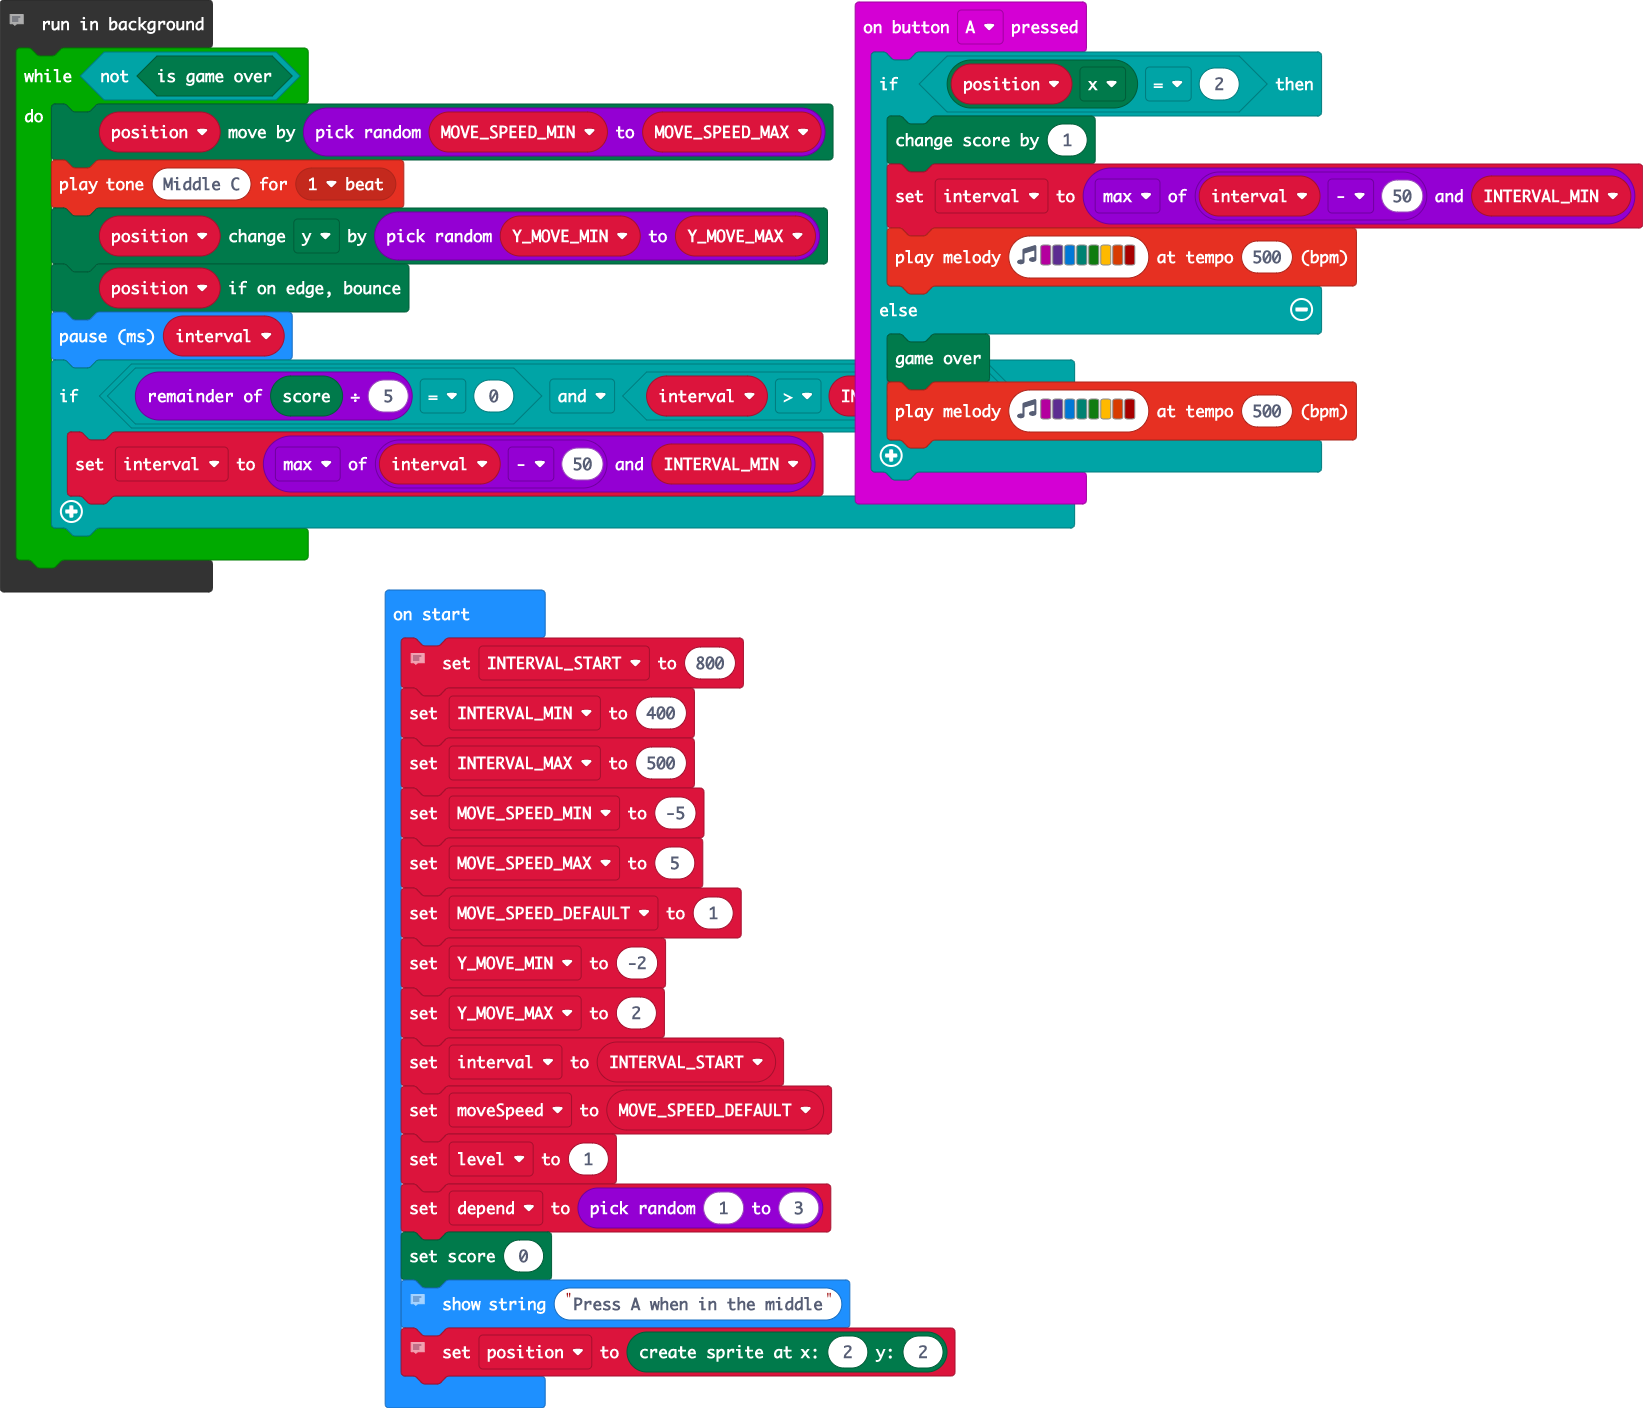
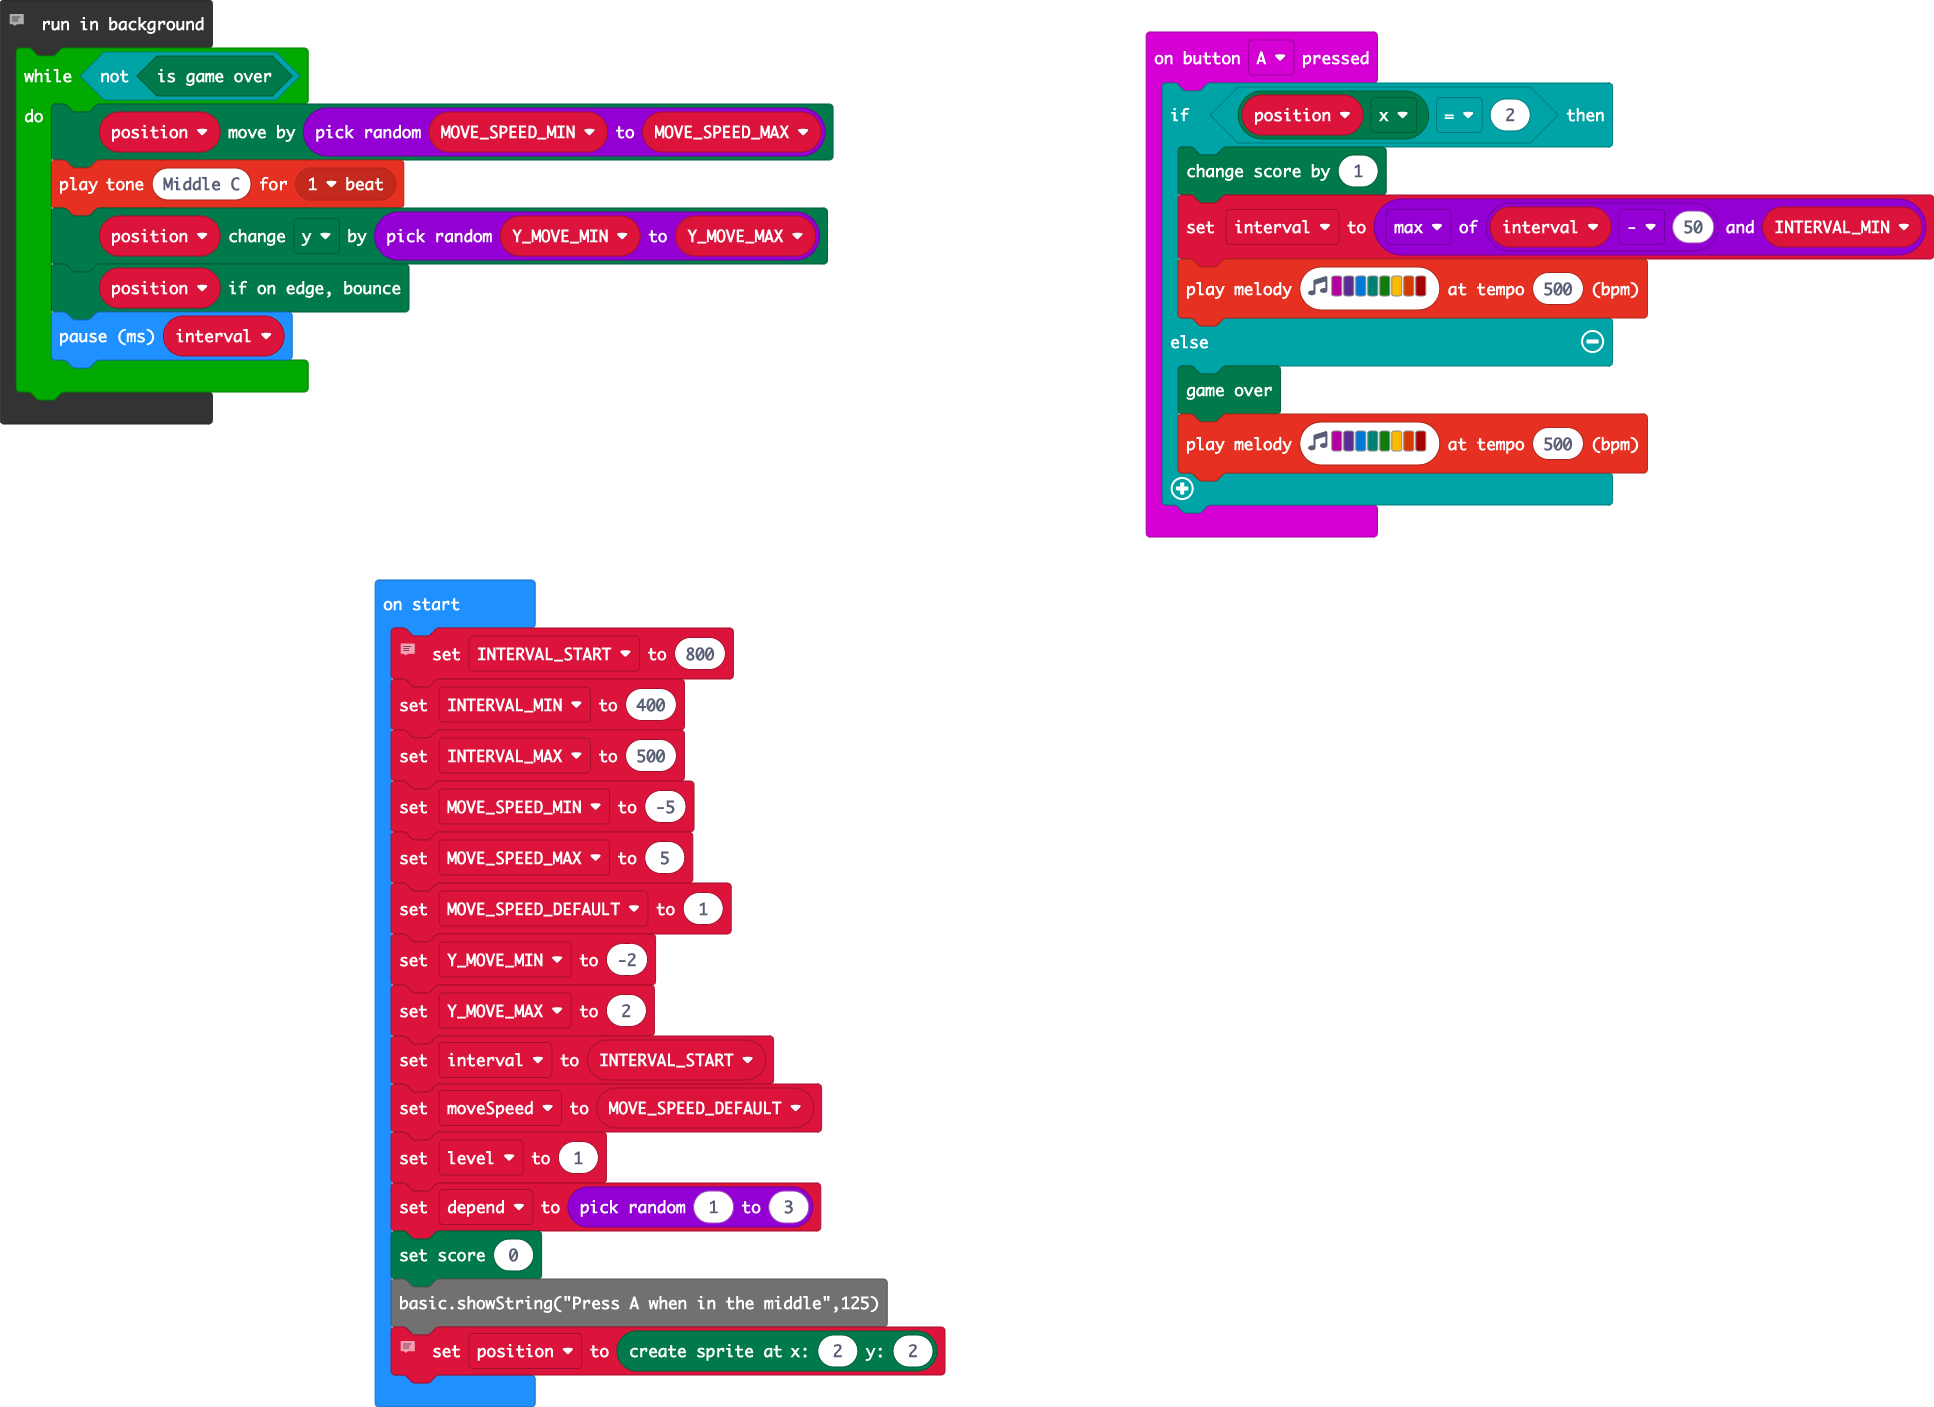
Update main.blocks, main.ts, README.md, main.py

diff --git a/main.ts b/main.ts
@@ -25,8 +25,7 @@ let moveSpeed = MOVE_SPEED_DEFAULT
 let level = 1
 let depend = randint(1, 3)
 game.setScore(0)
-// Display instructions on LED screen
-basic.showString("Press A when in the middle")
+basic.showString("Press A when in the middle",125)
 // Create the initial sprite
 position = game.createSprite(2, 2)
 // Move the sprite in the background
@@ -37,8 +36,5 @@ control.inBackground(function () {
         position.change(LedSpriteProperty.Y, randint(Y_MOVE_MIN, Y_MOVE_MAX))
         position.ifOnEdgeBounce()
         basic.pause(interval)
-        if (game.score() % 5 == 0 && interval > INTERVAL_MIN) {
-            interval = Math.max(interval - 50, INTERVAL_MIN)
-        }
     }
 })

diff --git a/main.py b/main.py
@@ -1,27 +1,59 @@
 input.onButtonPressed(Button.A, function () {
-    if (Position.get(LedSpriteProperty.X) == 2) {
-        game.addScore(1)
-        Intervine = Intervine - 50
+    if (target.get(LedSpriteProperty.X) == 2) {
+        score += 1
+        music.playTone(262, music.beat(BeatFraction.Half))
+        if (score % 5 == 0) {
+            level += 1
+            interval += 0 - 50
+            targetSpeed += 0 - 50
+        }
     } else {
         game.gameOver()
+        music.playTone(131, music.beat(BeatFraction.Half))
     }
 })
-let Intervine = 0
-let Position: game.LedSprite = null
-Position = game.createSprite(2, 2)
-let Level: string = 1
-Intervine = randint(400, 500)
-game.setScore(0)
+function resetTarget () {
+    target = game.createSprite(randint(0, 4), randint(0, 4))
+    targetSpeed = 500 - level * 50
+    targetBehavior = randint(1, 3)
+    pause(5000)
+target.set(LedSpriteProperty.X, 2)
+}
+function updateTarget () {
+    switch (targetBehavior) {
+        case 1:
+            target.move(1)
+            break
+        case 2:
+            target.move(-1)
+            break
+        case 3:
+            target.move(1)
+            break
+        case 4:
+            target.move(-1)
+            break
+    }
+target.ifOnEdgeBounce()
+}
+let score = 0
+let targetBehavior = 0
+let targetSpeed = 0
+let level = 0
+let target: game.LedSprite = null
+level = 1
+let interval = 500
+targetSpeed = 500
+targetBehavior = 1
+resetTarget()
 basic.forever(function () {
-    if (Level == "") {
-        Position.move(randint(-2, 2))
-        Position.change(LedSpriteProperty.Y, randint(-2, 2))
-        Position.ifOnEdgeBounce()
-        basic.pause(Intervine)
-    } else {
-        Position.move(1)
-        Position.change(LedSpriteProperty.Y, 1)
-        Position.ifOnEdgeBounce()
-        basic.pause(Intervine)
+    updateTarget()
+    if (target.get(LedSpriteProperty.X) != 2) {
+        targetSpeed = 500 - level * 50
+        targetBehavior = randint(1, 3)
+    }
+    basic.pause(targetSpeed)
+    if (target.get(LedSpriteProperty.X) == 2) {
+        resetTarget()
     }
 })

diff --git a/README.md b/README.md
@@ -1,18 +1,7 @@
 
 > Open this page at [https://jumpsushi.github.io/reaction-game/](https://jumpsushi.github.io/reaction-game/)
 
-## Use as Extension
-
-This repository can be added as an **extension** in MakeCode.
-
-* open [https://makecode.microbit.org/](https://makecode.microbit.org/)
-* click on **New Project**
-* click on **Extensions** under the gearwheel menu
-* search for **https://github.com/jumpsushi/reaction-game** and import
-
-## Edit this project ![Build status badge](https://github.com/jumpsushi/reaction-game/workflows/MakeCode/badge.svg)
-
-To edit this repository in MakeCode.
+To make a copy of this repository in MakeCode.
 
 * open [https://makecode.microbit.org/](https://makecode.microbit.org/)
 * click on **Import** then click on **Import URL**
